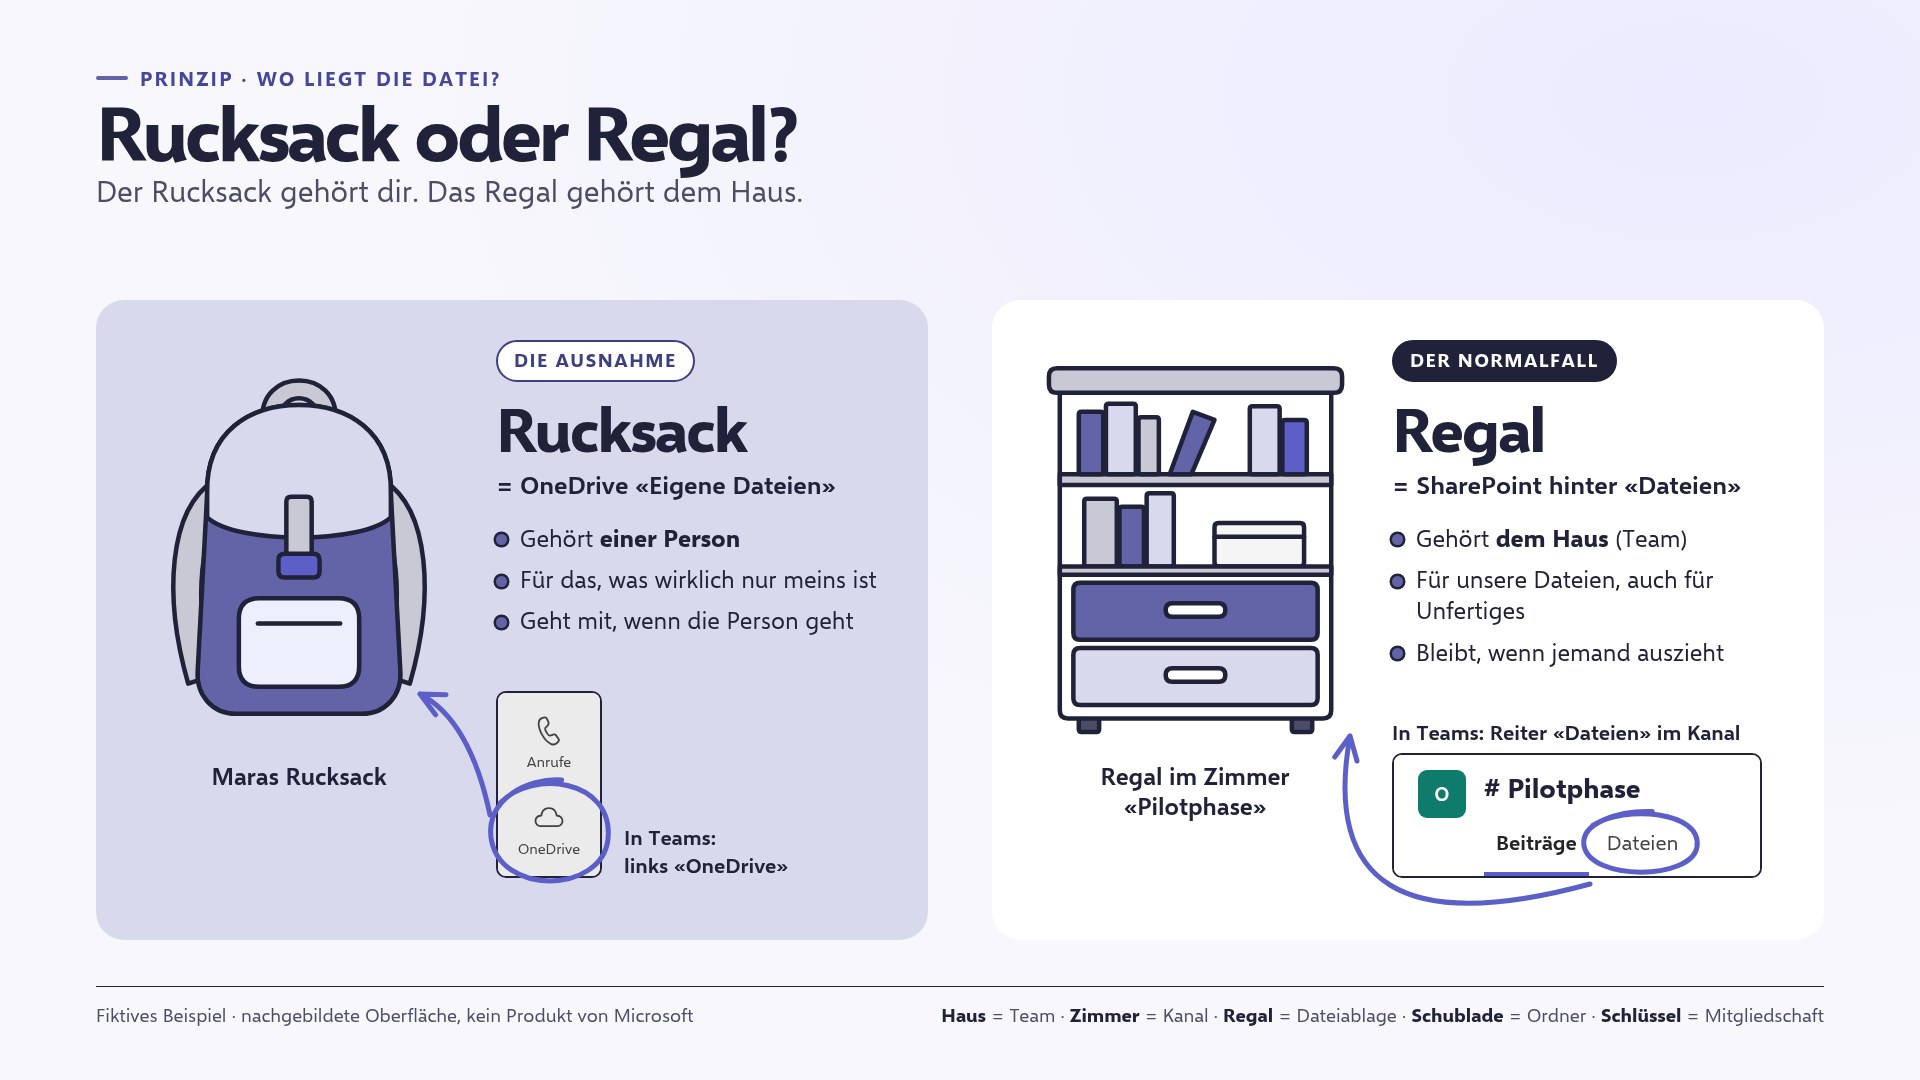
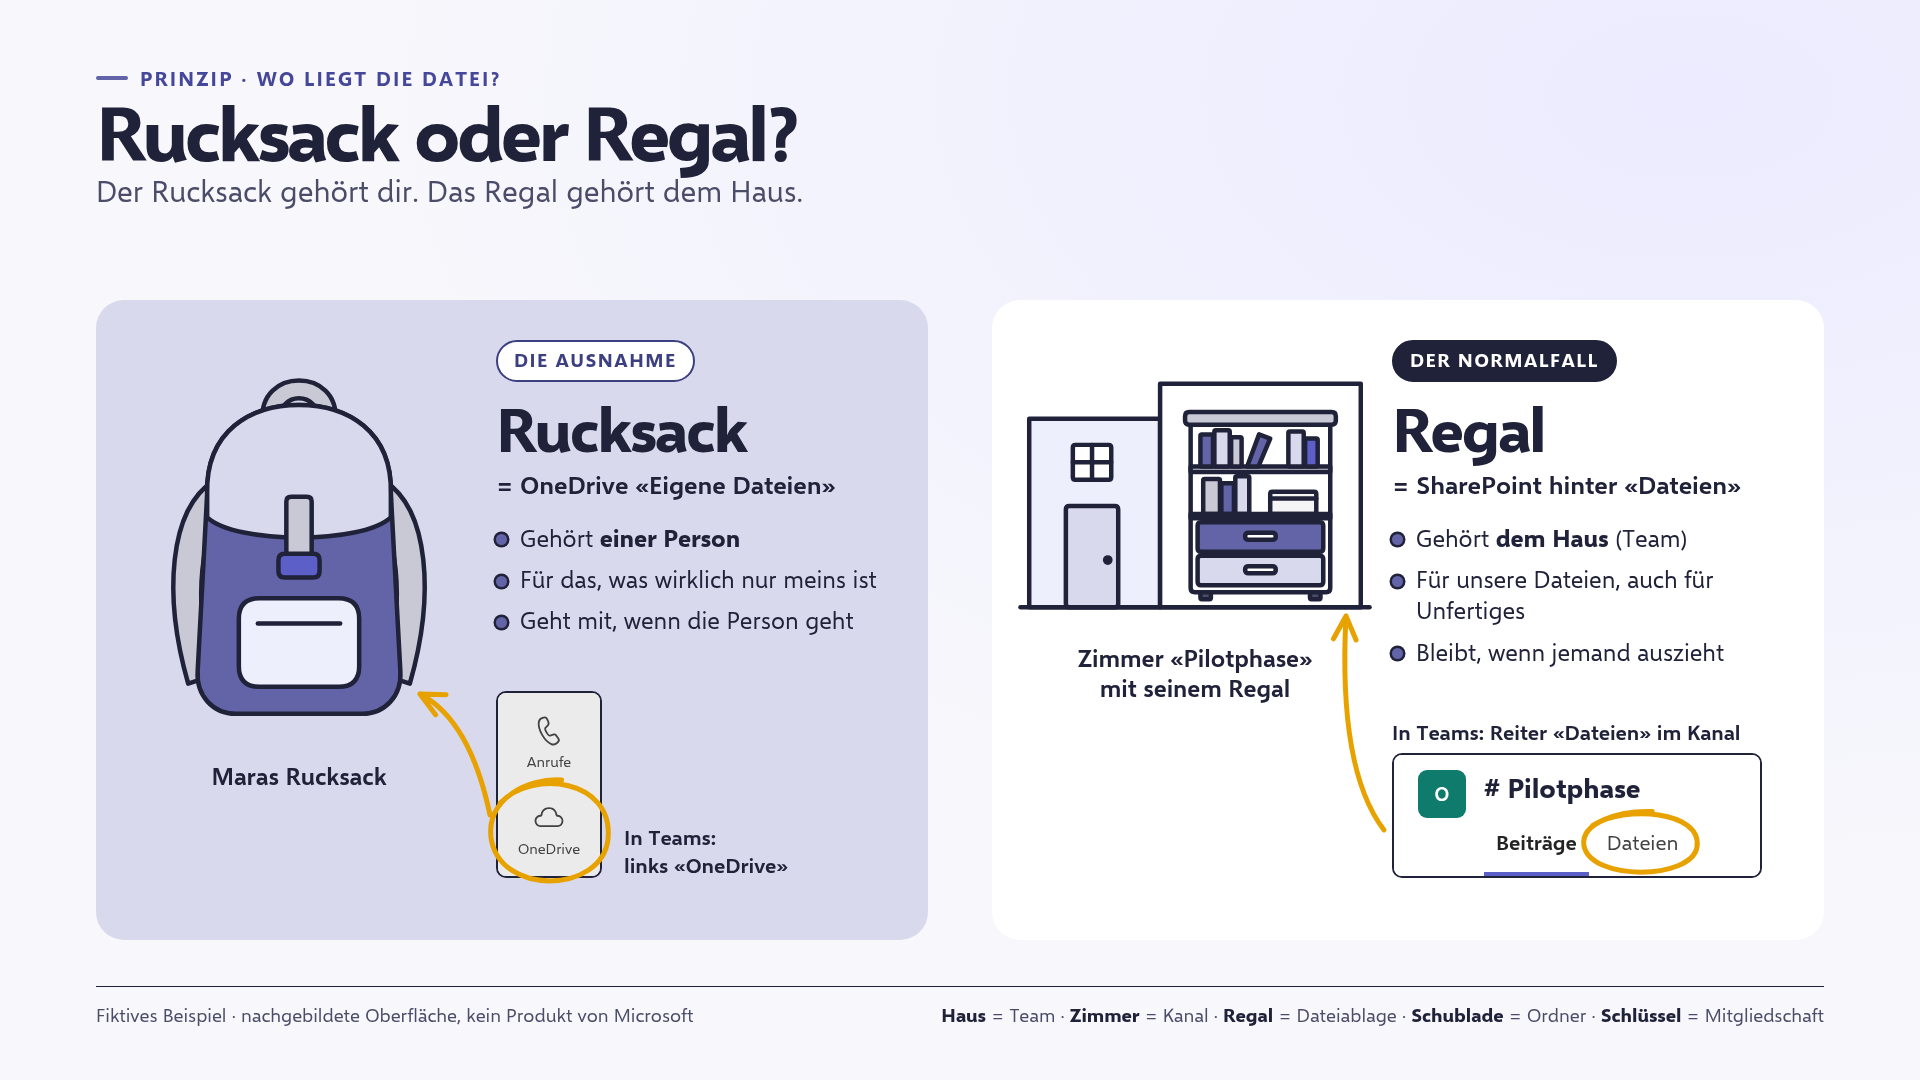
Storage: amber signal colour, Regal drawn as an annex of the room (zimmer)

diff --git a/src/metaphors.js b/src/metaphors.js
@@ -4,15 +4,16 @@
  *
  * Every picture is an SVG string built from fixed coordinates: same input, same picture, every
  * time. No images, no randomness. Colours are the Teams purples of the house slides (src/workspace.css), no mint and no red.
+ * One signal colour (amber, as in src/m365.css) carries highlight, cross, circle and arrow.
  * The outline keeps its width in slide pixels whatever the size of the object.
  *
  * Options shared by all objects:
  *   size       height of the drawing in px (the width follows)
  *   stroke     outline width in px (default 2.5)
  *   look       'flat' (default) or 'print' (fills sit slightly beside the outline)
- *   highlight  accent outline; regal also accepts a drawer number (1 or 2)
+ *   highlight  amber outline; regal also accepts a drawer number (1 or 2)
  *   empty      emptied: no fills, dashed outline
- *   crossed    accent cross over the object
+ *   crossed    amber cross over the object
  *   label      caption under the object
  */
 (function (root, factory) {
@@ -20,7 +21,7 @@
   if (typeof module === 'object' && module.exports) module.exports = value;
   else root.Metaphors = value;
 })(typeof window !== 'undefined' ? window : globalThis, function () {
-  var C = { ink: '#202239', ink2: '#4B4D68', lilac: '#D8D9ED', tint: '#EEEFFC', accent: '#5B5FC7', purple: '#6264A7', grey: '#C8C9D4', pale: '#F5F5F5', white: '#FFFFFF' };
+  var C = { ink: '#202239', ink2: '#4B4D68', lilac: '#D8D9ED', tint: '#EEEFFC', accent: '#5B5FC7', signal: '#E8A200', purple: '#6264A7', grey: '#C8C9D4', pale: '#F5F5F5', white: '#FFFFFF' };
   function esc(s) { return String(s == null ? '' : s).replace(/[&<>"]/g, function (c) { return { '&': '&amp;', '<': '&lt;', '>': '&gt;', '"': '&quot;' }[c]; }); }
   function n(x) { return Math.round(x * 100) / 100; }
   function rr(x, y, w, h, r) { r = r || 0; return 'M' + (x + r) + ' ' + y + 'H' + (x + w - r) + 'Q' + (x + w) + ' ' + y + ' ' + (x + w) + ' ' + (y + r) + 'V' + (y + h - r) + 'Q' + (x + w) + ' ' + (y + h) + ' ' + (x + w - r) + ' ' + (y + h) + 'H' + (x + r) + 'Q' + x + ' ' + (y + h) + ' ' + x + ' ' + (y + h - r) + 'V' + (y + r) + 'Q' + x + ' ' + y + ' ' + (x + r) + ' ' + y + 'Z'; }
@@ -31,7 +32,7 @@
     var off = o.look === 'print' ? sw * 1.6 : 0;
     return shapes.map(function (s) {
       var fill = o.empty ? null : s[1], hl = s[2] === 'hl' && o.highlight;
-      var line = '<path d="' + s[0] + '" fill="' + (off || !fill ? 'none' : fill) + '" stroke="' + (hl ? C.accent : C.ink) + '" stroke-width="' + n(hl ? sw * 1.8 : sw) + '"' + (o.empty ? ' stroke-dasharray="' + n(sw * 3) + ' ' + n(sw * 2.4) + '"' : '') + '/>';
+      var line = '<path d="' + s[0] + '" fill="' + (off || !fill ? 'none' : fill) + '" stroke="' + (hl ? C.signal : C.ink) + '" stroke-width="' + n(hl ? sw * 1.8 : sw) + '"' + (o.empty ? ' stroke-dasharray="' + n(sw * 3) + ' ' + n(sw * 2.4) + '"' : '') + '/>';
       return (off && fill ? '<path d="' + s[0] + '" fill="' + fill + '" stroke="none" transform="translate(' + n(off) + ' ' + n(off) + ')"/>' : '') + line;
     }).join('');
   }
@@ -41,7 +42,7 @@
     var labelH = o.label ? 46 / k : 0, fs = 26 / k;
     if (o.label) pad = Math.max(pad, (String(o.label).length * fs * 0.6 - w) / 2); /* room for a caption wider than the object */
     var body = inner(sw);
-    if (o.crossed) body += '<path d="M' + n(w * 0.12) + ' ' + n(h * 0.12) + 'L' + n(w * 0.88) + ' ' + n(h * 0.88) + 'M' + n(w * 0.88) + ' ' + n(h * 0.12) + 'L' + n(w * 0.12) + ' ' + n(h * 0.88) + '" fill="none" stroke="' + C.accent + '" stroke-width="' + n(sw * 2.6) + '"/>';
+    if (o.crossed) body += '<path d="M' + n(w * 0.12) + ' ' + n(h * 0.12) + 'L' + n(w * 0.88) + ' ' + n(h * 0.88) + 'M' + n(w * 0.88) + ' ' + n(h * 0.12) + 'L' + n(w * 0.12) + ' ' + n(h * 0.88) + '" fill="none" stroke="' + C.signal + '" stroke-width="' + n(sw * 2.6) + '"/>';
     if (o.label) body += '<text x="' + n(w / 2) + '" y="' + n(h + labelH * 0.72) + '" text-anchor="middle" font-size="' + n(fs) + '" font-weight="600" fill="' + C.ink + '" stroke="none">' + esc(o.label) + '</text>';
     return '<svg class="mx mx-' + name + '" xmlns="http://www.w3.org/2000/svg" width="' + Math.round((w + 2 * pad) * k) + '" height="' + Math.round((h + labelH + 2 * pad) * k) + '" viewBox="' + n(-pad) + ' ' + n(-pad) + ' ' + n(w + 2 * pad) + ' ' + n(h + labelH + 2 * pad) + '" role="img" aria-label="' + esc(o.label || name) + '">' +
       '<g fill="none" stroke="' + C.ink + '" stroke-linejoin="round" stroke-linecap="round" fill-rule="evenodd">' + body + '</g></svg>';
@@ -57,7 +58,7 @@
         ['M77 40C74 6 126 6 123 40L112 40C113 21 87 21 88 40Z', C.grey],
         ['M42 86C41 46 70 30 100 30C130 30 159 46 158 86L164 198C165 214 154 225 140 225L60 225C46 225 35 214 36 198Z', C.purple, 'hl']
       ];
-      if (o.sidePocket) shapes.push(['M161 138L177 143C183 145 186 150 186 157L186 190C186 198 181 203 173 203L164 203Z', o.sidePocket === 'highlight' ? C.accent : C.grey]);
+      if (o.sidePocket) shapes.push(['M161 138L177 143C183 145 186 150 186 157L186 190C186 198 181 203 173 203L164 203Z', o.sidePocket === 'highlight' ? C.signal : C.grey]);
       shapes.push(
         ['M42 86C41 46 70 30 100 30C130 30 159 46 158 86L158 101C140 118 60 118 42 101Z', C.lilac],
         [rr(92, 88, 16, 42, 3), C.grey],
@@ -101,6 +102,18 @@
           (labels[i] ? '<text x="120" y="23" text-anchor="middle" font-size="12" font-weight="700" fill="' + C.ink + '" stroke="none">' + esc(labels[i]) + '</text>' : '') + '</g>';
       }
       return out;
+    });
+  }
+
+  /* Zimmer = Kanal, with its Regal as an annex on the right: the file shelf belongs to the room, not to the house as a whole. */
+  function zimmer(o) {
+    o = o || {};
+    return frame('zimmer', 400, 300, o, function (sw) {
+      var room = [[rr(10, 70, 150, 216, 0), C.tint]];
+      if (!o.empty) room.push([rr(52, 170, 60, 116, 4), C.lilac], [circ(100, 232, 3), C.ink], [rr(60, 100, 44, 40, 3), C.white], ['M82 100V140M60 120H104', null]);
+      room.push([rr(160, 30, 230, 256, 0), C.white, 'hl'], ['M0 286H400', null]);
+      var inner = Object.assign({}, o, { highlight: false });
+      return draw(room, o, sw) + '<g transform="translate(179 56) scale(.8)">' + draw(cabinet(inner), inner, sw / 0.8) + '</g>';
     });
   }
 
@@ -156,12 +169,12 @@
     });
   }
 
-  /* Red pointer drawn in slide coordinates: a slightly open circle and a curved arrow. */
+  /* Pointer drawn in slide coordinates: a slightly open circle and a curved arrow. */
   function kreis(cx, cy, rx, ry, sw) {
     sw = sw || 5;
     return '<path d="M' + n(cx - rx * 0.86) + ' ' + n(cy - ry * 0.62) + 'C' + n(cx - rx * 0.3) + ' ' + n(cy - ry * 1.3) + ' ' + n(cx + rx * 1.1) + ' ' + n(cy - ry * 1.1) + ' ' + n(cx + rx) + ' ' + n(cy + ry * 0.1) +
       'C' + n(cx + rx * 0.9) + ' ' + n(cy + ry * 1.2) + ' ' + n(cx - rx * 0.9) + ' ' + n(cy + ry * 1.25) + ' ' + n(cx - rx * 1.02) + ' ' + n(cy + ry * 0.05) +
-      'C' + n(cx - rx * 1.08) + ' ' + n(cy - ry * 0.7) + ' ' + n(cx - rx * 0.4) + ' ' + n(cy - ry * 1.12) + ' ' + n(cx + rx * 0.2) + ' ' + n(cy - ry * 1.08) + '" fill="none" stroke="' + C.accent + '" stroke-width="' + sw + '" stroke-linecap="round"/>';
+      'C' + n(cx - rx * 1.08) + ' ' + n(cy - ry * 0.7) + ' ' + n(cx - rx * 0.4) + ' ' + n(cy - ry * 1.12) + ' ' + n(cx + rx * 0.2) + ' ' + n(cy - ry * 1.08) + '" fill="none" stroke="' + C.signal + '" stroke-width="' + sw + '" stroke-linecap="round"/>';
   }
   function pfeil(x1, y1, x2, y2, bend, sw) {
     sw = sw || 5; bend = bend == null ? 0.22 : bend; /* bend: curvature, or the control point [x, y] */
@@ -169,8 +182,8 @@
     var a = Math.atan2(y2 - my, x2 - mx), L = 26, w = 0.45;
     return '<path d="M' + n(x1) + ' ' + n(y1) + 'Q' + n(mx) + ' ' + n(my) + ' ' + n(x2) + ' ' + n(y2) +
       'M' + n(x2 - L * Math.cos(a - w)) + ' ' + n(y2 - L * Math.sin(a - w)) + 'L' + n(x2) + ' ' + n(y2) + 'L' + n(x2 - L * Math.cos(a + w)) + ' ' + n(y2 - L * Math.sin(a + w)) +
-      '" fill="none" stroke="' + C.accent + '" stroke-width="' + sw + '" stroke-linecap="round" stroke-linejoin="round"/>';
+      '" fill="none" stroke="' + C.signal + '" stroke-width="' + sw + '" stroke-linecap="round" stroke-linejoin="round"/>';
   }
 
-  return { rucksack: rucksack, regal: regal, haus: haus, person: person, schluessel: schluessel, kreis: kreis, pfeil: pfeil, colours: C };
+  return { rucksack: rucksack, regal: regal, haus: haus, zimmer: zimmer, person: person, schluessel: schluessel, kreis: kreis, pfeil: pfeil, colours: C };
 });

diff --git a/src/storage-view.js b/src/storage-view.js
@@ -27,10 +27,10 @@
   function metaphor(vm) {
     var m = vm.storage, sc = m.scene, v = m.variant, who = vm.person(sc.owner);
     var left = v === 'c' ? '<span class="st-duo">' + M.person(opts(v, { size: 290 })) + M.rucksack(opts(v, { size: 240 })) + '</span>' : M.rucksack(opts(v, { size: 380 }));
-    var right = v === 'c' ? '<span class="st-inhouse">' + M.haus(opts(v, { size: 300, open: true })) + '<span>' + M.regal(opts(v, { size: 132 })) + '</span></span>' : M.regal(opts(v, { size: 380 }));
+    var right = M.zimmer(opts(v, { size: 262 }));
     var pointers = !m.crops ? '' : '<svg class="st-pointers" viewBox="0 0 1920 1080" aria-hidden="true">' +
       M.kreis(550, 834, 58, 50) + (v === 'c' ? M.pfeil(488, 812, 476, 652, [450, 740]) : M.pfeil(490, 815, 420, 694, [470, 720])) +
-      M.kreis(1641, 844, 56, 30) + (v === 'c' ? M.pfeil(1590, 884, 1346, 660, [1300, 960]) : M.pfeil(1590, 884, 1350, 736, [1310, 960])) + '</svg>';
+      M.kreis(1641, 844, 56, 30) + M.pfeil(1384, 830, 1346, 616, [1338, 770]) + '</svg>';
     return '<div class="slide st-slide st-metaphor st-v-' + v + (m.crops ? '' : ' st-nocrops') + '" style="width:1920px;height:1080px">' +
       '<header class="st-head"><p class="st-eyebrow">Prinzip · Wo liegt die Datei?</p><h2>' + E(sc.title) + '</h2>' +
       '<p class="st-deck">Der Rucksack gehört dir. Das Regal gehört dem Haus.</p></header>' +
@@ -38,7 +38,7 @@
       side('st-rucksack', 'Die Ausnahme', 'Rucksack', '= OneDrive «Eigene Dateien»', left, E(genitive(who.name)) + ' Rucksack',
         ['Gehört <strong>einer Person</strong>', 'Für das, was wirklich nur meins ist', 'Geht mit, wenn die Person geht'],
         m.crops && railCrop(), 'In Teams:<br>links «OneDrive»') +
-      side('st-regal', 'Der Normalfall', 'Regal', '= SharePoint hinter «Dateien»', right, v === 'c' ? 'Regal im Haus<br>«' + E(sc.team) + '»' : 'Regal im Zimmer<br>«' + E(sc.channel) + '»',
+      side('st-regal', 'Der Normalfall', 'Regal', '= SharePoint hinter «Dateien»', right, 'Zimmer «' + E(sc.channel) + '»<br>mit seinem Regal',
         ['Gehört <strong>dem Haus</strong> (Team)', 'Für unsere Dateien, auch für Unfertiges', 'Bleibt, wenn jemand auszieht'],
         m.crops && tabCrop(sc), 'In Teams: Reiter «Dateien» im Kanal') +
       '</div>' + pointers +

diff --git a/docs/review/storage/specimen.html b/docs/review/storage/specimen.html
@@ -16,9 +16,9 @@ svg{font-family:var(--mtp-font)}
 var M = Metaphors, rows = [
   [['rucksack', {}, 'normal'], ['rucksack', { sidePocket: 'highlight' }, 'sidePocket: highlight'], ['rucksack', { highlight: true }, 'highlight'], ['rucksack', { empty: true }, 'empty'], ['rucksack', { crossed: true }, 'crossed'], ['rucksack', { label: 'Maras Rucksack' }, 'label'], ['rucksack', { stroke: 4.5 }, '4.5 px'], ['rucksack', { look: 'print' }, 'print']],
   [['regal', {}, 'normal'], ['regal', { count: 3, labels: ['Allgemein', 'Pilotphase', 'Auswertung'] }, 'count: 3, labels'], ['regal', { highlight: 1 }, 'highlight: 1'], ['regal', { empty: true }, 'empty'], ['regal', { crossed: true }, 'crossed'], ['regal', { stroke: 4.5 }, '4.5 px']],
-  [['haus', {}, 'normal'], ['haus', { open: true }, 'open'], ['haus', { highlight: true, label: 'Onboarding 2027' }, 'highlight, label'], ['person', {}, 'normal'], ['person', { rucksack: true }, 'rucksack'], ['person', { rucksack: true, walking: true }, 'walking'], ['person', { crossed: true }, 'crossed'], ['schluessel', { size: 70 }, 'normal'], ['schluessel', { size: 70, highlight: true }, 'highlight']]
+  [['haus', {}, 'normal'], ['haus', { open: true }, 'open'], ['haus', { highlight: true, label: 'Onboarding 2027' }, 'highlight, label'], ['zimmer', {}, 'zimmer + regal'], ['zimmer', { highlight: true }, 'highlight'], ['person', {}, 'normal'], ['person', { rucksack: true }, 'rucksack'], ['person', { rucksack: true, walking: true }, 'walking'], ['person', { crossed: true }, 'crossed'], ['schluessel', { size: 70 }, 'normal'], ['schluessel', { size: 70, highlight: true }, 'highlight']]
 ];
 document.getElementById('sheet').innerHTML = rows.map(function (r) {
-  return '<div class="row">' + r.map(function (x) { return '<figure>' + M[x[0]](Object.assign({ size: 205 }, x[1])) + '<figcaption>' + x[2] + '</figcaption></figure>'; }).join('') + '</div>';
+  return '<div class="row">' + r.map(function (x) { return '<figure>' + M[x[0]](Object.assign({ size: 178 }, x[1])) + '<figcaption>' + x[2] + '</figcaption></figure>'; }).join('') + '</div>';
 }).join('');
 </script></body></html>

diff --git a/src/storage.css b/src/storage.css
@@ -29,8 +29,6 @@
 .st-crop-tabs .t-chn p{margin:0}
 .st-pointers{position:absolute;left:0;top:0;width:1920px;height:1080px;pointer-events:none}
 .st-duo{display:flex;align-items:flex-end;gap:6px}
-.st-inhouse{position:relative;display:block}
-.st-inhouse>span{position:absolute;left:0;right:0;bottom:22px;display:flex;justify-content:center}
 .st-caption{margin:10px 0 0;font-size:24px;font-weight:600;line-height:1.25;text-align:center;max-width:300px}
 .st-foot{position:absolute;left:96px;right:96px;bottom:51px;display:flex;justify-content:space-between;align-items:baseline;gap:24px;margin:0;border-top:1.5px solid #202239;padding-top:15px;color:#4b4d68;font-size:19px;white-space:nowrap}
 .st-foot strong{color:#202239}
